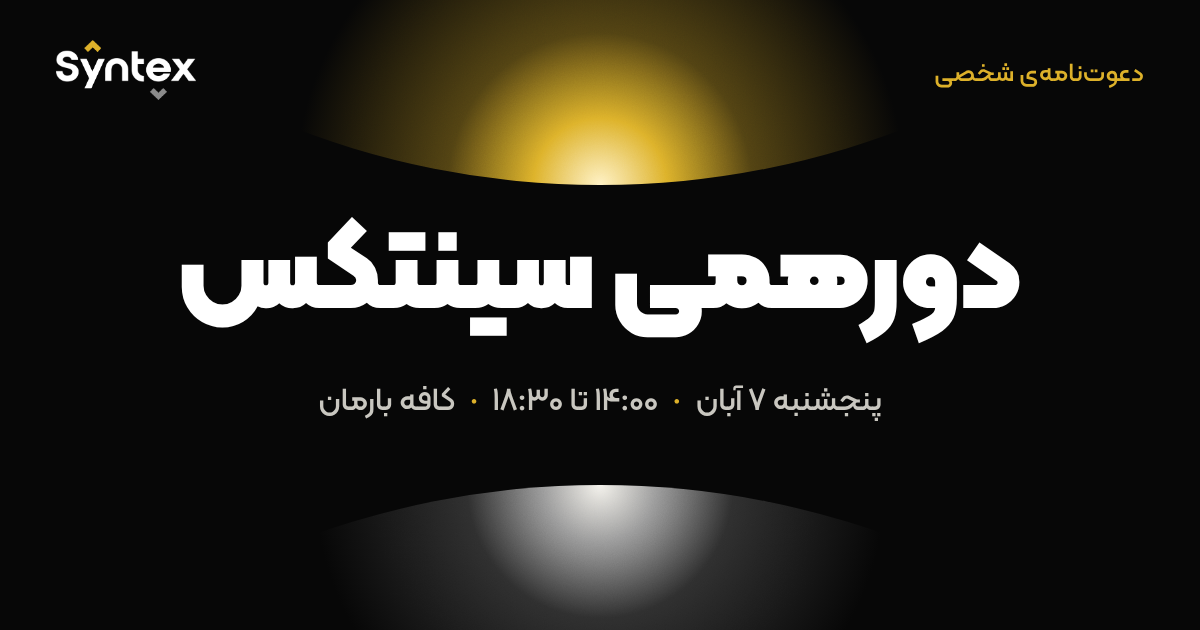
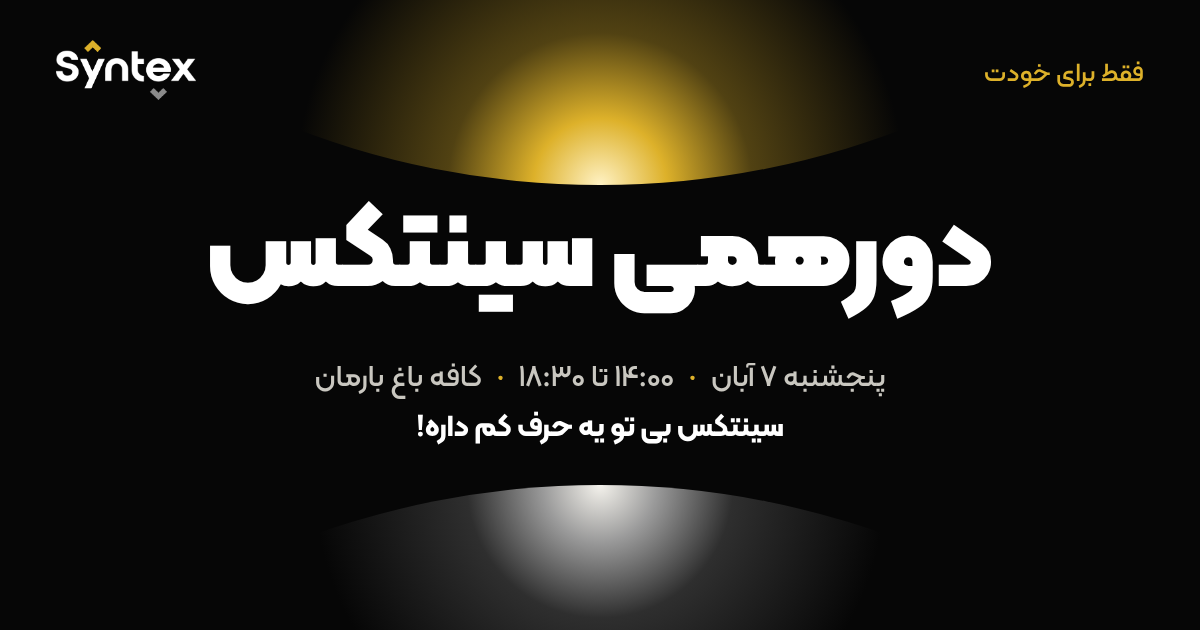
Casual Persian copy throughout; venue is Baarman Garden Cafe
Cards, envelope, buttons, panel and link preview now speak in a relaxed
spoken register («سینتکس بی تو یه حرف کم داره!», «بزن روی مهر تا باز شه»).
The venue becomes کافه باغ بارمان / Baarman Garden Cafe everywhere,
including the calendar entry. The details row shrinks a value to fit its
column, since the venue name is now longer.

Claude-Session: https://claude.ai/code/session_01DJu9CGGk9zNnhy3WDcaoWm

Changed region(s): [[0.1233, 0.3317, 0.8633, 0.5429], [0.2467, 0.573, 0.74, 0.7238], [0.7708, 0.0905, 0.9558, 0.1508]]

diff --git a/src/components/Panel.jsx b/src/components/Panel.jsx
@@ -36,10 +36,10 @@ function GuestRow({ g, i, active, canEdit, busy, onSelect, onSave, onRemove, onC
     <li className={`gr${active ? ' is-active' : ''}`} onClick={onSelect}>
       <span className="gr-n">{pad2(i + 1)}</span>
       <div className="gr-fields">
-        <input id={`gname-${g.id}`} aria-label="نام کامل" value={name} disabled={!canEdit}
+        <input id={`gname-${g.id}`} aria-label="اسم کامل" value={name} disabled={!canEdit}
           onChange={e => setName(e.target.value)} onBlur={commit} onKeyDown={key} onFocus={onSelect} />
-        <input id={`gcall-${g.id}`} className="gr-call" aria-label="با چه اسمی صدایش کنیم" value={call} disabled={!canEdit}
-          placeholder={`صدا زدن: ${firstName(name)}`} onChange={e => setCall(e.target.value)} onBlur={commit} onKeyDown={key} onFocus={onSelect} />
+        <input id={`gcall-${g.id}`} className="gr-call" aria-label="با چه اسمی صداش کنیم" value={call} disabled={!canEdit}
+          placeholder={`صداش میکنیم: ${firstName(name)}`} onChange={e => setCall(e.target.value)} onBlur={commit} onKeyDown={key} onFocus={onSelect} />
       </div>
       <div className="gr-act">
         <button type="button" className="chip" aria-label={`کپی لینک ${g.name}`} onClick={e => { e.stopPropagation(); onSelect(); onCopy(); }}>لینک</button>
@@ -102,7 +102,7 @@ export default function Panel() {
   const exportFailed = e => {
     if (isDeclined(e)) return;
     console.error(e);
-    flash('ساختن تصویر کار نکرد. یک بار دیگر امتحان کن.');
+    flash('ساختن عکس نشد. یه بار دیگه امتحان کن.');
   };
   const downloadOne = async i => {
     if (busy) return;
@@ -120,7 +120,7 @@ export default function Panel() {
     try {
       const zip = await zipAll({ concept, guests: roster }, (done, total) => setBusy({ kind: 'all', done, total }));
       await saveFile(`syntex-invites-${concept}.zip`, zip);
-      flash(`${fa(roster.length)} کارت ذخیره شد`);
+      flash(`${fa(roster.length)} تا کارت ذخیره شد`);
     } catch (e) { exportFailed(e); } finally { setBusy(null); }
   };
   const allLinks = () => roster.map((g, i) => `${g.name}: ${linkFor(i)}`).join('\n');
@@ -145,8 +145,8 @@ export default function Panel() {
       <section className="pn-ideas" aria-labelledby="ideas-t">
         <div className="pn-sec">
           <span className="eyebrow gold">ایدهها</span>
-          <h2 id="ideas-t">سه ایده برای کارت. یکی را انتخاب کن.</h2>
-          <p>هر سه با پاکت شروع میشوند: مهمان روی مهر میزند، پاکت باز میشود و کارت بیرون میآید. امتیازها با معیارهای داوری Awwwards است.</p>
+          <h2 id="ideas-t">سه تا ایده داریم، یکیشو انتخاب کن.</h2>
+          <p>هر سه تاش با یه پاکت شروع میشه: مهمون میزنه روی مهر، پاکت باز میشه و کارت میاد بیرون. امتیازها بر اساس معیارهای داوری Awwwardsه.</p>
         </div>
         <div className="ideas">
           {CONCEPTS.map(c => (
@@ -172,14 +172,14 @@ export default function Panel() {
               <button type="button" className="chip" onClick={() => setReplay(r => r + 1)}>از اول</button>
               <button type="button" className="chip" onClick={openFull}>تمامصفحه</button>
               <button type="button" className="chip" disabled={Boolean(busy)} onClick={() => downloadOne(idx)}>
-                {busy && busy.kind === 'one' && busy.index === idx ? 'در حال ساخت…' : 'دانلود PNG'}
+                {busy && busy.kind === 'one' && busy.index === idx ? 'داره ساخته میشه…' : 'دانلود PNG'}
               </button>
               {!isSample && <button type="button" className="chip chip--gold" onClick={() => copy(linkFor(idx), 'لینک کپی شد')}>کپی لینک</button>}
             </span>
           </div>
           <div className="pn-preview">
             <Experience key={`${concept}-${idx}-${roster[idx].name}-${replay}`} concept={concept} guests={roster} index={idx} embedded onPhase={setPhase} />
-            {phase === 'closed' && <span className="pn-preview-tip">پیشنمایش زنده است؛ روی مهر بزن.</span>}
+            {phase === 'closed' && <span className="pn-preview-tip">پیشنمایش زندهست؛ بزن روی مهر.</span>}
           </div>
           <div className="jury">
             <div className="jury-total">
@@ -202,25 +202,25 @@ export default function Panel() {
 
         <aside className="pn-guests" aria-labelledby="guests-t">
           <div className="pn-sec">
-            <span className="eyebrow gold">مهمانها</span>
-            <h2 id="guests-t">{isSample ? 'اسمها را اینجا بنویس' : `${fa(st.guests.length)} نفر`}</h2>
-            {!st.canEdit && <p className="muted">این فهرست را فقط سازندهی صفحه میتواند تغییر دهد.</p>}
+            <span className="eyebrow gold">مهمونها</span>
+            <h2 id="guests-t">{isSample ? 'اسمها رو اینجا بنویس' : `${fa(st.guests.length)} نفر`}</h2>
+            {!st.canEdit && <p className="muted">این فهرست رو فقط سازندهی صفحه میتونه عوض کنه.</p>}
           </div>
           {st.canEdit && (
             <>
               <form className="add" onSubmit={add}>
-                <input id="add-name" value={draft} onChange={e => setDraft(e.target.value)} placeholder="نام و نام خانوادگی" autoComplete="off" />
-                <button type="submit" className="btn btn--gold">افزودن</button>
+                <input id="add-name" value={draft} onChange={e => setDraft(e.target.value)} placeholder="اسم و فامیل" autoComplete="off" />
+                <button type="submit" className="btn btn--gold">اضافه کن</button>
               </form>
               <details className="bulk">
-                <summary>چند اسم با هم</summary>
-                <textarea id="bulk-names" rows={5} value={bulk} onChange={e => setBulk(e.target.value)} placeholder={'هر اسم در یک خط\nسارا محمدی\nعلی رضایی'} />
-                <button type="button" className="btn" onClick={addBulk}>افزودن همه</button>
+                <summary>چند تا اسم با هم</summary>
+                <textarea id="bulk-names" rows={5} value={bulk} onChange={e => setBulk(e.target.value)} placeholder={'هر اسم یه خط\nسارا محمدی\nعلی رضایی'} />
+                <button type="button" className="btn" onClick={addBulk}>همه رو اضافه کن</button>
               </details>
             </>
           )}
           {isSample ? (
-            <p className="empty">هنوز اسمی نیست. پیشنمایش با چند اسم نمونه کار میکند؛ اولین اسم را که بنویسی، کارتها با اسمهای واقعی ساخته میشوند.</p>
+            <p className="empty">هنوز اسمی نیست. فعلاً پیشنمایش با چند تا اسم نمونه کار میکنه؛ اولین اسم رو که بنویسی، کارتها با اسمهای واقعی ساخته میشن.</p>
           ) : (
             <ol className="glist">
               {st.guests.map((g, i) => (
@@ -237,7 +237,7 @@ export default function Panel() {
             <div className="pn-bulk-act">
               <button type="button" className="btn btn--wide" onClick={() => copy(allLinks(), 'همهی لینکها کپی شد')}>کپی همهی لینکها</button>
               <button type="button" className="btn btn--wide" disabled={Boolean(busy)} onClick={downloadAll}>
-                {busy && busy.kind === 'all' ? `در حال ساخت کارت ${fa(Math.min(busy.done + 1, busy.total))} از ${fa(busy.total)}…` : 'دانلود همهی کارتها (ZIP)'}
+                {busy && busy.kind === 'all' ? `داره کارت ${fa(Math.min(busy.done + 1, busy.total))} از ${fa(busy.total)} ساخته میشه…` : 'دانلود همهی کارتها (ZIP)'}
               </button>
               {busy && busy.kind === 'all' && <i className="pn-progress" style={{ '--p': busy.done / busy.total }} />}
             </div>
@@ -246,15 +246,15 @@ export default function Panel() {
             <span>آدرس صفحهی دعوت</span>
             <input id="base-url" dir="ltr" value={st.base || ''} placeholder={siteBase('')} disabled={!st.canEdit}
               onChange={e => act.setSettings({ base: e.target.value.trim() })} />
-            <small>لینک هر نفر همین آدرس است بهعلاوهی یک کد اختصاصی. خالی بگذار تا لینکها به نسخهی اصلی روی Vercel بروند.</small>
+            <small>لینک هر نفر همین آدرسه بهاضافهی یه کد مخصوص خودش. خالی بذاریش، لینکها میرن روی نسخهی اصلی Vercel.</small>
           </label>
           {manual && (
             <div className="manual">
-              <span>کپی خودکار کار نکرد. متن انتخاب شده است؛ خودت کپی کن.</span>
+              <span>کپی خودکار کار نکرد؛ متن انتخاب شده، خودت کپیش کن.</span>
               <textarea id="manual-copy" readOnly value={manual} rows={4} autoFocus onFocus={e => e.target.select()} />
             </div>
           )}
-          <p className="muted small">{st.mode === 'db' ? 'فهرست در خود صفحه ذخیره میشود و روی هر دستگاهی که بازش کنی همین است.' : 'فهرست فقط در همین مرورگر ذخیره میشود.'}</p>
+          <p className="muted small">{st.mode === 'db' ? 'فهرست تو خود صفحه ذخیره میشه و رو هر دستگاهی بازش کنی همینه.' : 'فهرست فقط تو همین مرورگر ذخیره میشه.'}</p>
         </aside>
       </main>
 

diff --git a/src/components/Cards.jsx b/src/components/Cards.jsx
@@ -37,10 +37,10 @@ function Domes({ guest, w, h, shown, pointer, instant }) {
         {lines.map((l, i) => <Reveal key={i} show={shown} delay={0.35 + i * 0.12}>{l}</Reveal>)}
       </div>
       <Reveal show={shown} delay={0.75} className="d-line" style={{ top: `calc(50% + ${nameH / 2 + w * 0.07}px)` }}>
-        سینتکس بی تو یک حرف کم دارد.
+        سینتکس بی تو یه حرف کم داره!
       </Reveal>
       <div className="c-bottom">
-        <Details show={shown} delay={0.95} />
+        <Details show={shown} delay={0.95} w={w} />
       </div>
     </>
   );
@@ -65,10 +65,10 @@ function Liquid({ guest, w, shown, pointer, instant }) {
       </div>
       <Fade show={shown} delay={0.6} className="l-arrow">
         <span aria-hidden="true">←</span>
-        <b>یک بعدازظهر<br />با هم</b>
+        <b>یه بعدازظهر<br />با هم</b>
       </Fade>
       <div className="l-tags">
-        <Reveal show={shown} delay={0.7} className="l-guest">مهمان: <b>{guest.name}</b></Reveal>
+        <Reveal show={shown} delay={0.7} className="l-guest">مهمون ما: <b>{guest.name}</b></Reveal>
         <Reveal show={shown} delay={0.78} className="l-tag">جلسهی سازمانی</Reveal>
         <Reveal show={shown} delay={0.86} className="l-tag">تیمسازی</Reveal>
       </div>
@@ -79,7 +79,7 @@ function Liquid({ guest, w, shown, pointer, instant }) {
         <Reveal show={shown} delay={1.12} className="l-vn">{EVENT.venue} <span className="mono">{EVENT.venueEn.toUpperCase()}</span></Reveal>
       </div>
       <Fade show={shown} delay={1.1} className="l-body">
-        <p>{guest.name} عزیز، {EVENT.weekday} دور هم جمع میشویم. اول جلسهی سازمانی، بعد تیمسازی. بدون تو جمعمان کامل نیست.</p>
+        <p>{callOf(guest)} جان، {EVENT.weekday} دور هم جمع میشیم. اول یه جلسهی سازمانی داریم، بعدش تیمسازی. بی تو جمعمون جمع نیست.</p>
       </Fade>
       <svg className="l-diag" viewBox="0 0 100 100" preserveAspectRatio="none" aria-hidden="true"><path d="M100 0L0 100" /></svg>
     </>
@@ -115,7 +115,7 @@ function Lineup({ guest, guests, index, w, shown, pointer, instant }) {
       <div className="u-bill">
         <Reveal show={shown} delay={0.6} className="eyebrow gold">سرِ لاینآپ</Reveal>
         <Reveal show={shown} delay={0.7} className="u-head" style={{ fontSize: nameSize }}>{guest.name}</Reveal>
-        {others.length > 0 && <Reveal show={shown} delay={0.8} className="u-with">و با حضور</Reveal>}
+        {others.length > 0 && <Reveal show={shown} delay={0.8} className="u-with">و بقیهی بچهها</Reveal>}
         {others.length > 0 && (
           <Fade show={shown} delay={0.9} className="u-names" style={{ fontSize: lineSize }}>
             {others.map((n, i) => (

diff --git a/src/concepts.js b/src/concepts.js
@@ -13,8 +13,8 @@ export const CONCEPTS = [
     num: '۰۱',
     name: 'دو نیمکره',
     ref: 'از پوستر DeepTech',
-    line: 'علامت طلایی بالا و خاکستری پایینِ لوگو، این بار دو کرهی نورانی. اسم مهمان درست در شکاف بین آنها مینشیند.',
-    note: 'نزدیکترین ایده به هویت سینتکس. اسمهای سهکلمهای سه خط میشوند و کمی کوچکتر.',
+    line: 'علامت طلایی بالا و خاکستری پایینِ لوگو، این بار شدن دو تا کرهی نورانی. اسم مهمون درست وسط این دو تا میشینه.',
+    note: 'از همه به هویت سینتکس نزدیکتره. اسمهای سهکلمهای سه خط میشن و یه کم کوچیکتر.',
     jury: { design: 9, usability: 8, creativity: 8.5, content: 8.5 },
   },
   {
@@ -22,8 +22,8 @@ export const CONCEPTS = [
     num: '۰۲',
     name: 'دعوتی!',
     ref: 'از پوستر Art Exhibition',
-    line: 'کارت کاغذی روشن و دو علامت لوگو از فلز صیقلی که در نور میچرخند. تیتر با اسم کوچک خود مهمان شروع میشود.',
-    note: 'خواناترین کارت، و تنها کارت روشن جمع. متنش بیشتر است و روی گوشی باید از نزدیک خوانده شود.',
+    line: 'یه کارت کاغذی روشن، با دو تا علامت لوگو از فلز براق که تو نور میچرخن. تیتر با اسم کوچیک خود مهمون شروع میشه.',
+    note: 'از همه خواناتره و تنها کارت روشنِ جمعه. متنش بیشتره و رو گوشی باید از نزدیک خوند.',
     jury: { design: 8.5, usability: 9, creativity: 8, content: 7.5 },
   },
   {
@@ -31,8 +31,8 @@ export const CONCEPTS = [
     num: '۰۳',
     name: 'لاینآپ',
     ref: 'از پوستر Summer Sonic',
-    line: 'مثل پوستر فستیوال، همهی اسمها روی کارت هستند و هر کس روی کارت خودش سرِ لاینآپ است.',
-    note: 'حس جمع را از همه بهتر میرساند. با مهمانهای زیاد، فهرست پایین کارت ریزتر میشود.',
+    line: 'عین پوستر فستیوال: اسم همه روی کارته و هر کی روی کارت خودش سرِ لاینآپه.',
+    note: 'حس جمع رو از همه بهتر میرسونه. مهمونها که زیاد بشن، فهرست پایین کارت ریزتر میشه.',
     jury: { design: 8.5, usability: 8, creativity: 9.5, content: 9 },
   },
 ];

diff --git a/src/components/Experience.jsx b/src/components/Experience.jsx
@@ -200,7 +200,7 @@ export default function Experience({ concept, guests, index, embedded = false, o
             </motion.div>
           </div>
           <button ref={seal} className={`seal${paper ? ' is-paper' : ''}`} style={{ width: ew * 0.17, height: ew * 0.17 }}
-            onClick={e => { e.stopPropagation(); open(); }} aria-label={`باز کردن دعوتنامهی ${guest.name}`}>
+            onClick={e => { e.stopPropagation(); open(); }} aria-label={`دعوتنامهی ${guest.name} رو باز کن`}>
             <svg viewBox="-50 -50 100 100" aria-hidden="true">
               <defs>
                 <radialGradient id="sealg" cx="35%" cy="30%" r="80%">
@@ -223,7 +223,7 @@ export default function Experience({ concept, guests, index, embedded = false, o
           <motion.p key="hint" className="xp-hint" style={{ top: anchorY + eh / 2 + 26 }}
             initial={{ opacity: 0, y: 8 }} animate={{ opacity: 1, y: 0, transition: { delay: 1.1, duration: 0.8 } }}
             exit={{ opacity: 0, y: -6, transition: { duration: 0.25 } }}>
-            روی مهر بزن تا باز شود
+            بزن روی مهر تا باز شه
           </motion.p>
         )}
       </AnimatePresence>
@@ -231,11 +231,11 @@ export default function Experience({ concept, guests, index, embedded = false, o
       <AnimatePresence>
         {phase === 'open' && (
           <motion.div key="foot" className="xp-foot" initial={{ opacity: 0, y: 12 }} animate={{ opacity: 1, y: 0 }} exit={{ opacity: 0 }} transition={{ duration: 0.6 }}>
-            <a className="btn btn--gold" href={calendarUrl(guest.name)} target="_blank" rel="noopener noreferrer">افزودن به تقویم</a>
+            <a className="btn btn--gold" href={calendarUrl(guest.name)} target="_blank" rel="noopener noreferrer">بذارش تو تقویمت</a>
             <button className="btn" type="button" onClick={saveImage} disabled={saving === 'busy'}>
-              {{ busy: 'در حال ساخت تصویر…', done: 'تصویر ذخیره شد', error: 'نشد؛ دوباره بزن' }[saving] || 'ذخیرهی تصویر'}
+              {{ busy: 'یه لحظه صبر کن…', done: 'عکسش ذخیره شد', error: 'نشد، دوباره بزن' }[saving] || 'عکسشو ذخیره کن'}
             </button>
-            <button className="btn" type="button" onClick={replay}>یک بار دیگر باز کن</button>
+            <button className="btn" type="button" onClick={replay}>یه بار دیگه بازش کن</button>
             {!embedded && <span className="xp-no mono">NO. {String(index + 1).padStart(2, '0')}</span>}
           </motion.div>
         )}

diff --git a/index.html b/index.html
@@ -4,14 +4,14 @@
     <meta charset="utf-8" />
     <meta name="viewport" content="width=device-width, initial-scale=1, viewport-fit=cover" />
     <title>دعوتنامهی دورهمی سینتکس</title>
-    <meta name="description" content="پنجشنبه ۷ آبان ۱۴۰۵، ساعت ۱۴:۰۰ تا ۱۸:۳۰، کافه بارمان. روی مهر بزن تا دعوتنامهات باز شود." />
+    <meta name="description" content="پنجشنبه ۷ آبان ۱۴۰۵، ساعت ۱۴:۰۰ تا ۱۸:۳۰، کافه باغ بارمان. بزن روی مهر تا دعوتنامهت باز شه." />
     <meta name="theme-color" content="#0a0a0a" />
     <link rel="icon" type="image/svg+xml" href="./favicon.svg" />
     <meta property="og:type" content="website" />
     <meta property="og:site_name" content="Syntex" />
     <meta property="og:locale" content="fa_IR" />
     <meta property="og:title" content="دعوتنامهی دورهمی سینتکس" />
-    <meta property="og:description" content="پنجشنبه ۷ آبان، ۱۴:۰۰ تا ۱۸:۳۰، کافه بارمان. روی مهر بزن تا باز شود." />
+    <meta property="og:description" content="پنجشنبه ۷ آبان، ۱۴:۰۰ تا ۱۸:۳۰، کافه باغ بارمان. بزن روی مهر تا باز شه." />
     <meta property="og:url" content="https://synvitational.vercel.app/" />
     <meta property="og:image" content="https://synvitational.vercel.app/og.png" />
     <meta property="og:image:width" content="1200" />

diff --git a/src/components/bits.jsx b/src/components/bits.jsx
@@ -2,6 +2,7 @@ import { createContext, useContext } from 'react';
 import { motion } from 'framer-motion';
 import { Canvas } from '@react-three/fiber';
 import { EVENT, dateLine, timeLine } from '../event.js';
+import { fitSize } from '../fit.js';
 import wordmarkUrl from '../assets/syntex-wordmark.png';
 
 const EASE = [0.16, 1, 0.3, 1];
@@ -66,7 +67,8 @@ export function GL({ children, camera = { position: [0, 0, 6], fov: 35 } }) {
   );
 }
 
-export function Details({ show, delay = 0.7 }) {
+export function Details({ show, delay = 0.7, w }) {
+  const colW = w * 0.263;
   const cols = [
     ['روز', dateLine, EVENT.year, false],
     ['ساعت', timeLine, '۴٫۵ ساعت', false],
@@ -83,7 +85,7 @@ export function Details({ show, delay = 0.7 }) {
           transition={{ duration: 0.9, delay: show ? delay + i * 0.09 : 0, ease: EASE }}
         >
           <span className="det-l">{label}</span>
-          <b className="det-v">{value}</b>
+          <b className="det-v" style={w ? { fontSize: fitSize(value, colW, w * 0.033, w * 0.02, 700) } : undefined}>{value}</b>
           <span className={`det-s${mono ? ' mono' : ''}`}>{sub}</span>
         </motion.div>
       ))}

diff --git a/src/App.jsx b/src/App.jsx
@@ -15,8 +15,8 @@ function GuestView({ token }) {
       <div className="gv-top">
         <span className="mono">SYNVITATIONAL · {EVENT.latinDate}</span>
         {fromPanel
-          ? <button type="button" className="chip" onClick={() => { window.location.hash = ''; }}>بازگشت به پنل</button>
-          : <span>دعوتنامهی شخصی</span>}
+          ? <button type="button" className="chip" onClick={() => { window.location.hash = ''; }}>برگرد به پنل</button>
+          : <span>فقط برای خودت</span>}
       </div>
       <Experience concept={token.concept} guests={token.guests} index={token.index} />
     </div>

diff --git a/src/event.js b/src/event.js
@@ -11,8 +11,8 @@ export const EVENT = {
   start: '۱۴:۰۰',
   end: '۱۸:۳۰',
   duration: 'چهار ساعت و نیم',
-  venue: 'کافه بارمان',
-  venueEn: 'Barman Cafe',
+  venue: 'کافه باغ بارمان',
+  venueEn: 'Baarman Garden Cafe',
   latinDate: '1405.08.07',
   // Thursday 29 Oct 2026, 14:00 to 18:30 Tehran time (UTC+03:30)
   calStart: '20261029T103000Z',

diff --git a/README.md b/README.md
@@ -1,6 +1,6 @@
 # Synvitational
 
-Personal invitations for Syntex's gathering: Thursday 7 Aban 1405, 14:00 to 18:30, Barman Cafe (کافه بارمان). An organization meeting followed by team building.
+Personal invitations for Syntex's gathering: Thursday 7 Aban 1405, 14:00 to 18:30, Baarman Garden Cafe (کافه باغ بارمان). An organization meeting followed by team building.
 
 Each guest gets their own link. It opens on a sealed envelope with their name on it; they tap the gold seal, the flap opens, the card slides out, turns upright and comes alive in 3D. Everything is in Persian, set in Kalameh.
 
